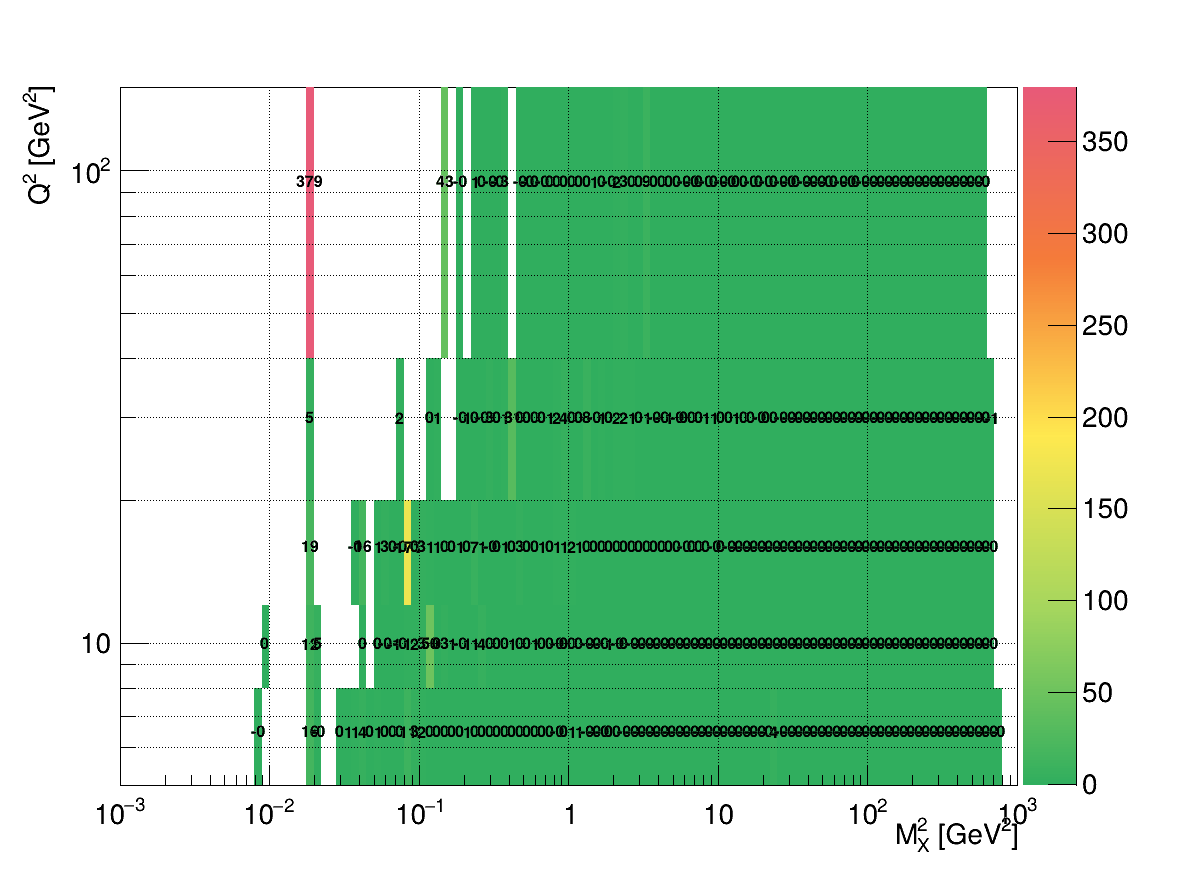
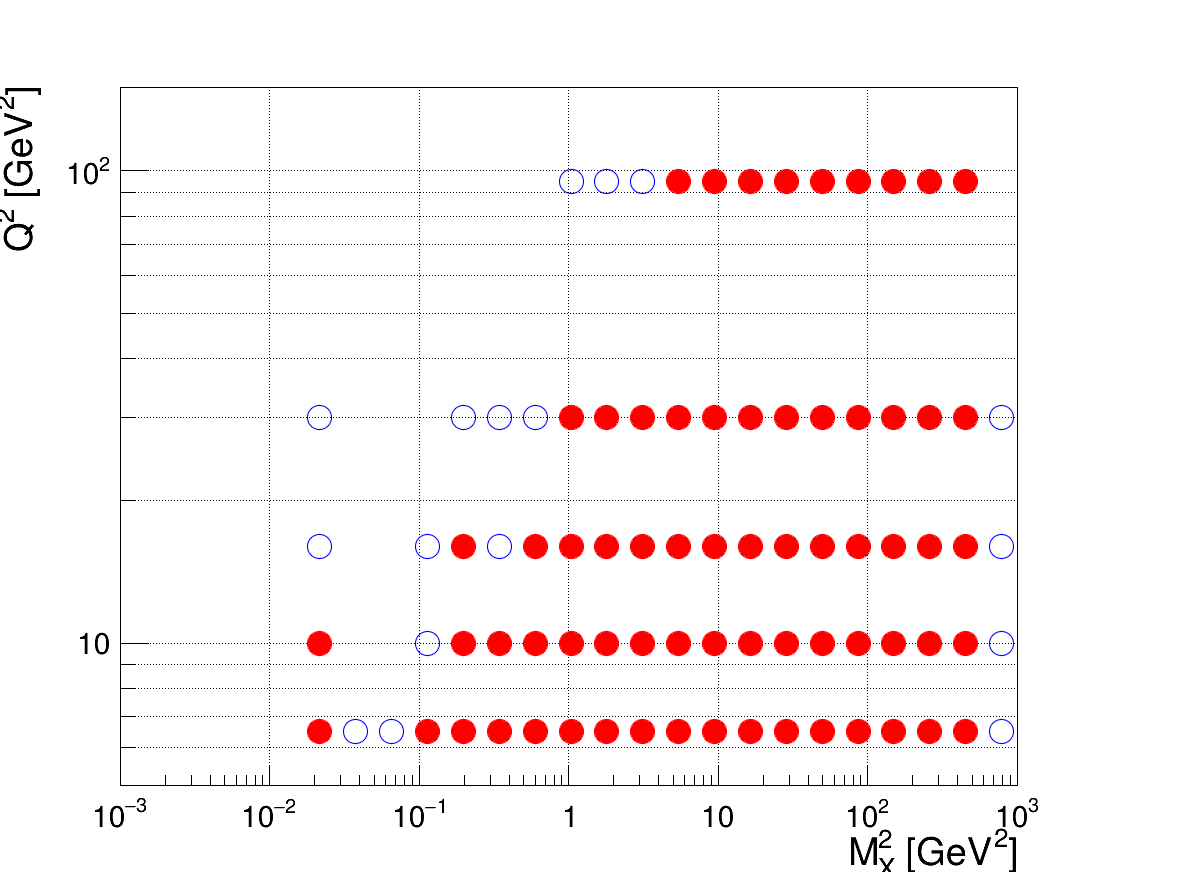
Fix MX2 2D resolution map: use circle plot with coarser binning
Replace raw COLZ TEXT draw with createCirclePlot and reduce the
TProfile2D x-axis from 120 to 25 log bins to match other 2D maps.

diff --git a/analysis/DDIS_Skim_Final.cpp b/analysis/DDIS_Skim_Final.cpp
@@ -821,9 +821,11 @@ int main(int argc, char** argv) {
     TH2D* h_MX2_RelRes_binned = new TH2D("MX2_RelRes_binned",
                                          "M_{X}^{2} relative resolution;M_{X,truth}^{2} [GeV^{2}];#frac{M_{X,reco}^{2}-M_{X,truth}^{2}}{M_{X,truth}^{2}}",
                                          mx2_bins.size() - 1, mx2_bins.data(), n_binned, -1.0, 1.0);
+    // Coarser binning for the 2D resolution map (circle plot) — 25 bins like x_bins
+    std::vector<Double_t> mx2_bins_coarse = GetLogBins(mx2_min, mx2_max, 25);
     TProfile2D* h_MX2_RelRes_vs_MX2Q2 = new TProfile2D("MX2_RelRes_vs_MX2Q2",
                                                        "M_{X}^{2} Rel. Res. binned in (M_{X}^{2}, Q^{2});M_{X}^{2} [GeV^{2}];Q^{2} [GeV^{2}]",
-                                                       mx2_bins.size() - 1, mx2_bins.data(),
+                                                       mx2_bins_coarse.size() - 1, mx2_bins_coarse.data(),
                                                        n_bins, bin_edges_Q2.data(),
                                                        "s");
 

diff --git a/analysis/DDIS_Plot_Final.cpp b/analysis/DDIS_Plot_Final.cpp
@@ -5341,16 +5341,8 @@ int main(int argc, char** argv) {
                          "figs/inclusive/resolutions/2d_maps/y_RelRes_xQ2_BestMethod.png",
                          "x_{Bj}", "Q^{2} [GeV^{2}]", true, true);
 
-    if (auto* profMX2 = (TProfile2D*)inputFile->Get("MX2_RelRes_vs_MX2Q2")) {
-        TCanvas* cMX2 = new TCanvas("c_MX2_relres_map", "MX2 Resolution", 1200, 900);
-        cMX2->SetRightMargin(0.15);
-        cMX2->SetLogx();
-        cMX2->SetLogy();
-        profMX2->SetTitle("M_{X}^{2} Resolution vs (M_{X}^{2}, Q^{2});M_{X}^{2} [GeV^{2}];Q^{2} [GeV^{2}]");
-        profMX2->Draw("COLZ TEXT");
-        SaveCanvas(cMX2, "figs/diffractive/resolutions/2d_maps/MX2_RelRes_MX2Q2.png");
-        delete cMX2;
-    }
+    createCirclePlot("MX2_RelRes_vs_MX2Q2", "figs/diffractive/resolutions/2d_maps/MX2_RelRes_MX2Q2.png",
+                     "M_{X}^{2} [GeV^{2}]", "Q^{2} [GeV^{2}]", true, true);
 
     if (auto* hEPz2D = (TH2D*)inputFile->Get("h_EPz_2D")) {
         TCanvas* cEPz = new TCanvas("c_EPz_2D", "E-pz Correlation", 1200, 900);
